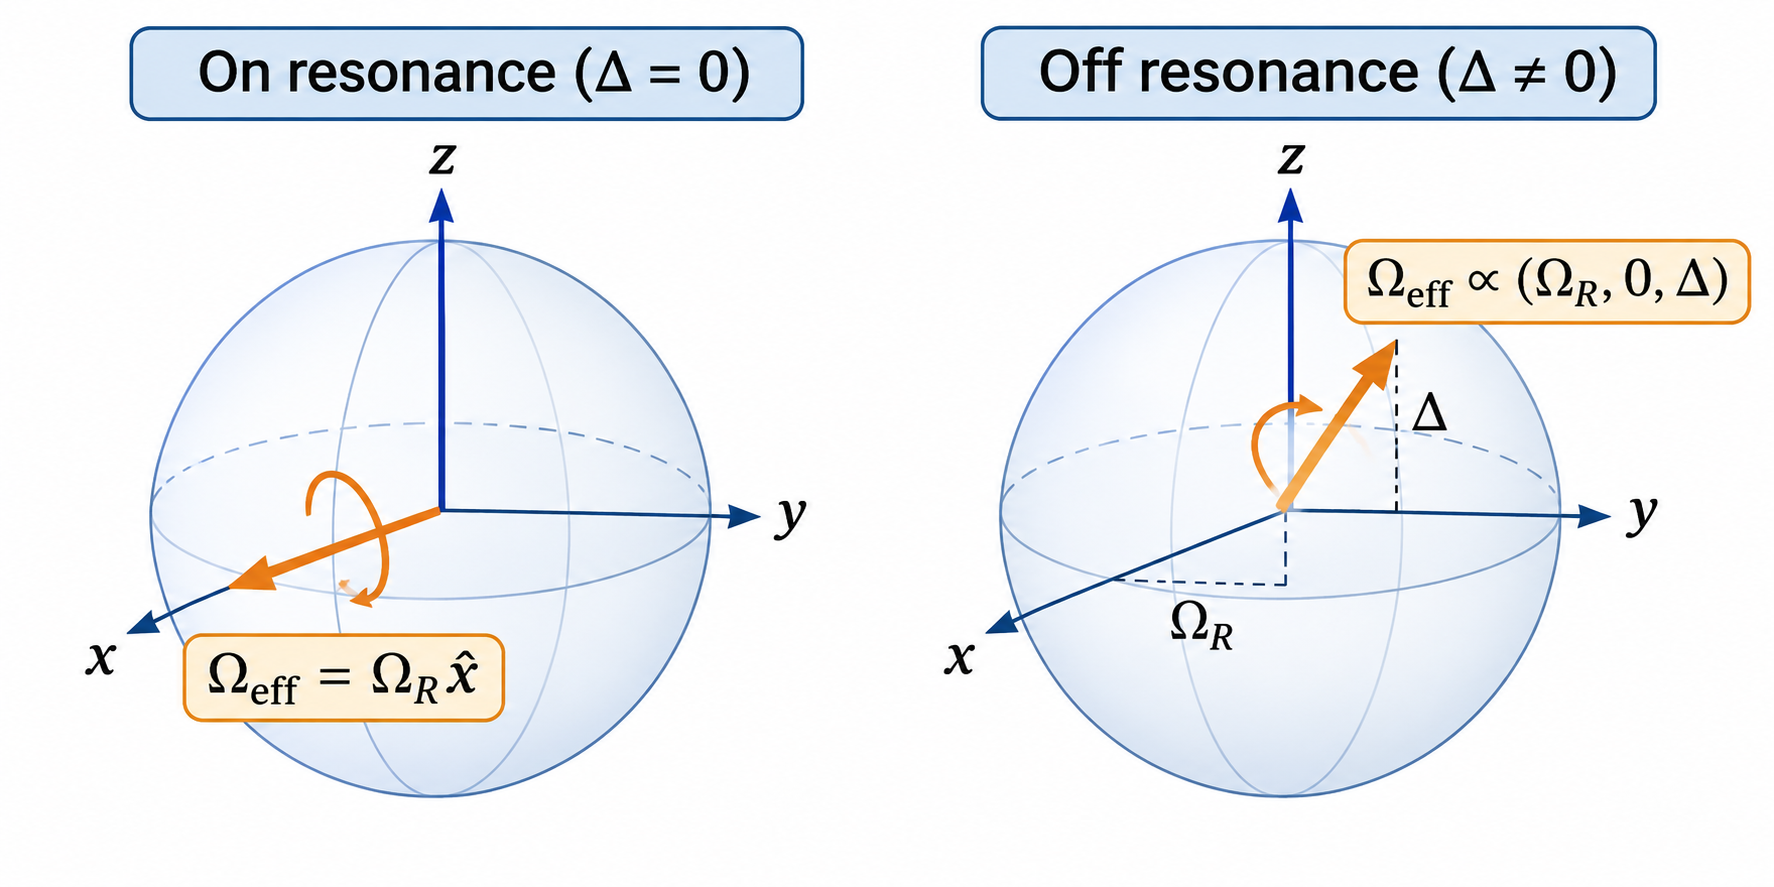
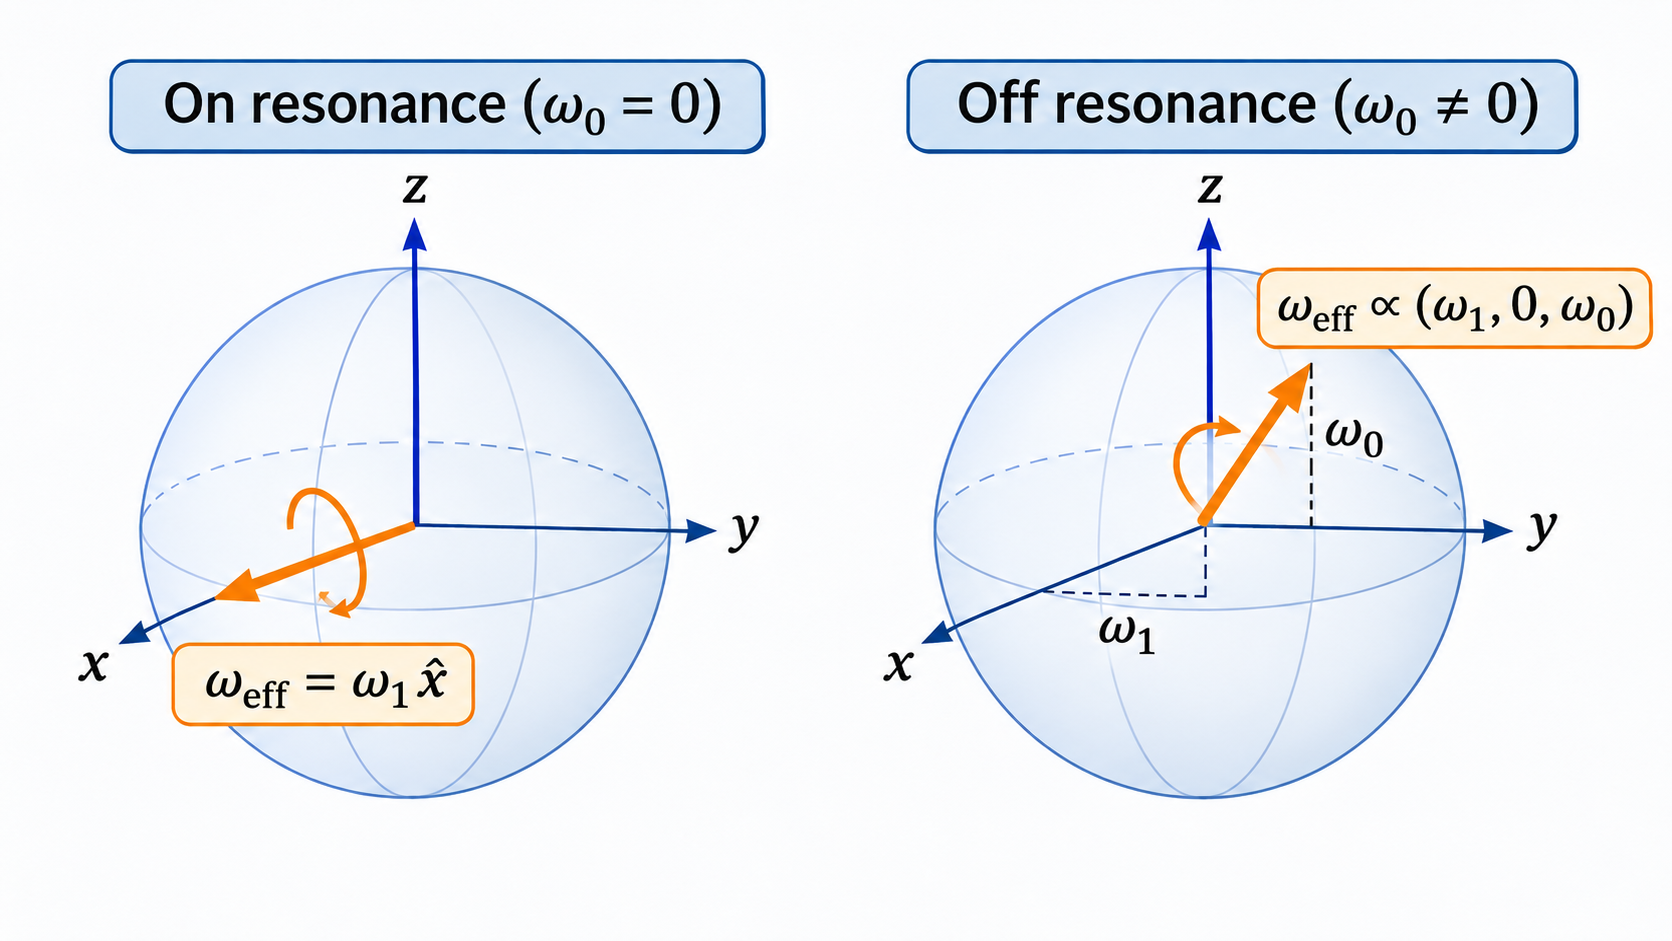
part 2 update

diff --git a/Schrodinger Time Evolution - NV Diamonds/Part 2: Microwave Driving and Rabi Oscillations.md b/Schrodinger Time Evolution - NV Diamonds/Part 2: Microwave Driving and Rabi Oscillations.md
@@ -4,7 +4,7 @@
 
 In Part 1, you observed how a quantum superposition accumulates relative phase while the probabilities of measuring its two basis states remain unchanged.
 
-We can do something more powerful: **use microwave radiation to deliberately transfer population between two quantum states**. This controlled evolution is called *Rabi oscillation*.
+We can do something more powerful: **use microwave radiation to deliberately transfer population between two quantum states**. This controlled evolution produces *Rabi oscillations*.
 
 In this activity, you will simulate microwave-driven dynamics of an NV-center spin, identify the pulse duration required to flip the spin, and investigate what happens when the microwave frequency does not match the spin transition frequency.
 
@@ -23,81 +23,103 @@ We continue to use the effective two-level system introduced in Part 0:
 |1\rangle\equiv|m_s=-1\rangle.
 ```
 
-A static magnetic field applied along the NV axis changes the energy difference between these states. The transition has an angular frequency $\omega_0$ determined by that energy difference:
+A static magnetic field applied along the NV axis changes the energy difference between these states. Let $\omega_{\mathrm{NV}}$ denote the physical angular transition frequency, defined by the magnitude of the energy gap:
 
 ```math
-E_1-E_0=\hbar\omega_0.
+|E_1-E_0|=\hbar\omega_{\mathrm{NV}}.
 ```
 
-A microwave magnetic field oscillating at angular frequency $\omega_d$ can drive transitions between the two states. We define the **detuning** as
+A microwave field oscillating at angular frequency $\omega_d$ can drive transitions between the states. The microwave is **on resonance** when $\omega_d=\omega_{\mathrm{NV}}$; otherwise it is **off resonance**.
+
+Students in QLab are developing NV-diamond magnetometers using these transitions. A magnetic field shifts $\omega_{\mathrm{NV}}$, changing the response to microwaves held at a fixed frequency. We will connect the resulting population changes to red fluorescence in Part 3.
+
+### Connection to the Textbook: An Effective Time-Independent Hamiltonian
+
+In Section 3.2.2 of your textbook, you studied a spin in a *static* magnetic field with $x$- and $z$-components. Its Hamiltonian has the form
 
 ```math
-\Delta=\omega_0-\omega_d.
+\hat H=\omega_0\hat S_z+\omega_1\hat S_x
+=\frac{\hbar}{2}\left(\omega_0\sigma_z+\omega_1\sigma_x\right).
 ```
 
-When $\Delta=0$, the microwave field is **on resonance**. When $\Delta\ne0$, the microwave field is **off resonance**.
-
-In the QLab, students developing NV-diamond magnetometers must understand this microwave control. Because a magnetic field changes the NV transition frequency, a microwave drive at a fixed frequency can become resonant or detuned as the field changes. The resulting changes in spin populations can ultimately be detected through red fluorescence, which we will investigate in Part 3.
-
-### The Rotating-Frame Hamiltonian
-
-To describe microwave-driven evolution, we use a reference frame rotating with the applied microwave field. In this frame, and within the rotating-wave approximation, our two-level Hamiltonian is
+**Our microwave-driven NV center uses an effective Hamiltonian with the same mathematical form:**
 
 ```math
-\hat H=\frac{\hbar}{2}\left(\Omega_R\sigma_x+\Delta\sigma_z\right),
+\boxed{\hat H_{\mathrm{eff}}=\frac{\hbar}{2}\left(\omega_0\sigma_z+\omega_1\sigma_x\right).}
 ```
 
-where:
+Here the two parameters mean:
 
-- $\Omega_R$ is the **resonant Rabi angular frequency**, controlled by the microwave field strength.
-- $\Delta$ is the detuning between the NV transition and the microwave drive.
-- $\sigma_x$ and $\sigma_z$ are the Pauli operators for our effective two-level system.
+- $\omega_0=\omega_{\mathrm{NV}}-\omega_d$: **signed microwave detuning**, playing the role of the textbook's $z$-term coefficient.
+- $\omega_1$: **effective microwave coupling strength**, playing the role of the textbook's $x$-term coefficient. On resonance, it is the Rabi angular frequency.
 
-We will work in units of microseconds and radians per microsecond. QuTiP uses $\hbar=1$ when we enter the Hamiltonian in angular-frequency units, so the computational Hamiltonian is $H/\hbar$.
+**Important distinction:** The textbook's field is truly static, while the microwave field applied to an NV center oscillates rapidly in the laboratory. The Hamiltonian above is a **time-independent effective model**, valid during a constant-amplitude microwave pulse in a frame rotating with the drive and under the rotating-wave approximation. We will use it without deriving that transformation. In particular, $\omega_0$ in **this part** means *detuning*, **not** the NV transition frequency $\omega_{\mathrm{NV}}$ or the illustrative precession rate used in Part 1.
+
+The Pauli operators here describe our two-state subspace, not the full spin-1 NV ground state. In matrix form, as in the textbook,
+
+```math
+\hat H_{\mathrm{eff}}=\frac{\hbar}{2}
+\begin{pmatrix}
+\omega_0 & \omega_1 \\
+\omega_1 & -\omega_0
+\end{pmatrix}.
+```
+
+We will work in microseconds and radians per microsecond. In QuTiP, supply $H/\hbar$ in angular-frequency units, so the numerical Hamiltonian uses the same coefficients without an explicit factor of $\hbar$.
 
 ### Resonant Driving: A Spin Flip
 
-On resonance, $\Delta=0$, so the Hamiltonian simplifies to
+On resonance, $\omega_0=0$, so the Hamiltonian simplifies to
 
 ```math
-\hat H_{\mathrm{res}}=\frac{\hbar\Omega_R}{2}\sigma_x.
+\hat H_{\mathrm{res}}=\frac{\hbar\omega_1}{2}\sigma_x.
 ```
 
 Starting from $|0\rangle$, the microwave field drives a rotation about the $x$-axis of the Bloch sphere. The population of $|1\rangle$ is
 
 ```math
-P_1(t)=\sin^2\left(\frac{\Omega_Rt}{2}\right).
+P_1(t)=\sin^2\left(\frac{\omega_1t}{2}\right).
 ```
 
 After a time
 
 ```math
-t_\pi=\frac{\pi}{\Omega_R},
+t_\pi=\frac{\pi}{\omega_1},
 ```
 
 the spin has rotated through an angle $\pi$ and the population has transferred completely from $|0\rangle$ to $|1\rangle$. This is called a **$\pi$-pulse**. A shorter $\pi/2$-pulse prepares an equal superposition.
 
 ### Off-Resonant Driving
 
-When $\Delta\ne0$, the Hamiltonian contains both $\sigma_x$ and $\sigma_z$ terms:
+When $\omega_0\ne0$, the Hamiltonian contains both $\sigma_x$ and $\sigma_z$ terms:
 
 ```math
-\hat H_{\mathrm{off}}=\frac{\hbar}{2}\left(\Omega_R\sigma_x+\Delta\sigma_z\right).
+\hat H_{\mathrm{off}}=\frac{\hbar}{2}\left(\omega_0\sigma_z+\omega_1\sigma_x\right).
 ```
 
-The Bloch vector now rotates about a tilted effective axis in the $x$–$z$ plane, rather than the $x$-axis alone. The oscillations occur at the **generalized Rabi angular frequency**
+The Bloch vector rotates around a tilted effective axis in the $x$–$z$ plane, just as in the textbook's general-direction field problem. The difference between the two energy eigenvalues defines the generalized oscillation angular frequency
 
 ```math
-\Omega_{\mathrm{eff}}=\sqrt{\Omega_R^2+\Delta^2},
+\Omega=\sqrt{\omega_0^2+\omega_1^2}.
 ```
 
-but the maximum population transfer is reduced:
+The textbook's Rabi formula (Eq. 3.63) becomes, for our initial $|0\rangle$ state,
 
 ```math
-P_{1,\max}=\frac{\Omega_R^2}{\Omega_R^2+\Delta^2}.
+P_{0\rightarrow1}(t)=
+\frac{\omega_1^2}{\omega_0^2+\omega_1^2}
+\sin^2\!\left(\frac{\sqrt{\omega_0^2+\omega_1^2}}{2}t\right).
 ```
 
-The distinction is important: **detuning can make the population oscillate faster while preventing a complete spin flip**.
+The maximum population transfer is
+
+```math
+P_{0\rightarrow1}^{\max}=\frac{\omega_1^2}{\omega_0^2+\omega_1^2}.
+```
+
+Thus **increasing the magnitude of detuning increases the generalized oscillation frequency while decreasing the maximum probability of a complete spin flip**.
+
+**Diagram notation:** The reference image uses the common labels $\Delta$ and $\Omega_R$. These correspond to our textbook-style $\omega_0$ and $\omega_1$, respectively. Its $\Omega_{\mathrm{eff}}$ is the same as $\Omega$ here.
 
 <p align="center">
   <img src="Images/nv_rabi_resonant_vs_detuned_bloch.png"
@@ -105,7 +127,7 @@ The distinction is important: **detuning can make the population oscillate faste
        width="450">
 </p>
 
-*Reference diagram: On resonance, the effective rotation axis lies along x. With nonzero detuning, it tilts toward z. Students will calculate the corresponding spin trajectories in Figure 3.*
+*Reference diagram (with alternate notation): On resonance, the effective rotation axis lies along x. With nonzero detuning, it tilts toward z. Students will calculate the corresponding spin trajectories in Figure 3.*
 
 ---
 
@@ -122,7 +144,7 @@ Start with the initial state
 and the resonant Hamiltonian
 
 ```math
-\hat H_{\mathrm{res}}=\frac{\hbar\Omega_R}{2}\sigma_x.
+\hat H_{\mathrm{res}}=\frac{\hbar\omega_1}{2}\sigma_x.
 ```
 
 **Record your predictions before running the simulation:**
@@ -136,8 +158,8 @@ and the resonant Hamiltonian
 Use the instructor-provided QuTiP functions and the parameters
 
 ```math
-\Omega_R=2\pi\ \mathrm{rad/\mu s},\qquad
-\Delta=0,
+\omega_1=2\pi\ \mathrm{rad/\mu s},\qquad
+\omega_0=0,
 ```
 
 with a simulation interval of
@@ -175,12 +197,12 @@ Include a caption describing how rotation on the Bloch sphere corresponds to pop
 Repeat the simulation with
 
 ```math
-\Omega_R=4\pi\ \mathrm{rad/\mu s},\qquad \Delta=0.
+\omega_1=4\pi\ \mathrm{rad/\mu s},\qquad \omega_0=0.
 ```
 
 Keep the initial state and total time interval unchanged.
 
-Report the expected and observed first $\pi$-pulse durations for both microwave strengths. Explain the change in the population-oscillation period.
+Report the expected and observed first $\pi$-pulse durations for both coupling strengths. Explain the change in the population-oscillation period.
 
 An additional comparison plot may help, but it is **not another required numbered figure**.
 
@@ -190,19 +212,19 @@ An additional comparison plot may help, but it is **not another required numbere
 
 ### Step 5: Predict the Effect of Detuning
 
-Return to the original microwave strength
+Return to the original microwave coupling
 
 ```math
-\Omega_R=2\pi\ \mathrm{rad/\mu s}
+\omega_1=2\pi\ \mathrm{rad/\mu s}
 ```
 
 and consider three driving conditions:
 
-| Case | Detuning $\Delta$ | Interpretation |
+| Case | Detuning $\omega_0$ | Interpretation |
 |---|---:|---|
 | A | $0$ | Resonant |
-| B | $\Omega_R$ | Moderately detuned |
-| C | $2\Omega_R$ | More strongly detuned |
+| B | $\omega_1$ | Moderately detuned |
+| C | $2\omega_1$ | More strongly detuned |
 
 **Before running the simulations, predict:**
 
@@ -212,10 +234,10 @@ and consider three driving conditions:
 
 ### Step 6: Simulate Detuned Driving
 
-Use the full rotating-frame Hamiltonian:
+Use the full effective Hamiltonian:
 
 ```math
-\hat H=\frac{\hbar}{2}\left(\Omega_R\sigma_x+\Delta\sigma_z\right).
+\hat H=\frac{\hbar}{2}\left(\omega_1\sigma_x+\omega_0\sigma_z\right).
 ```
 
 For each of the three detunings, evolve the same initial state $|0\rangle$ over $0$ to $2\ \mathrm{\mu s}$.
@@ -227,7 +249,7 @@ Use the supplied evolution and plotting functions to:
 3. Determine the maximum of $P_1(t)$ for each detuning.
 4. Compare the numerical maxima with the analytical expression for $P_{1,\max}$.
 
-**AI coding task:** Ask an LLM to extend your existing resonant simulation so that only the detuning changes. Retain the same definitions and plotting functions. Request a comparison rather than three unrelated programs.
+**AI coding task:** Ask an LLM to extend your existing resonant simulation so that only $\omega_0$ (detuning) changes. Retain the same definitions and plotting functions. Request a comparison rather than three unrelated programs.
 
 ### Step 7: Generate Figure 3
 
@@ -261,30 +283,30 @@ All probabilities must lie between 0 and 1.
 
 ### 2. Resonant $\pi$-Pulse
 
-For $\Omega_R=2\pi\ \mathrm{rad/\mu s}$, the predicted first spin flip occurs at
+For $\omega_1=2\pi\ \mathrm{rad/\mu s}$, the predicted first spin flip occurs at
 
 ```math
 t_\pi=0.5\ \mathrm{\mu s}.
 ```
 
-Verify that $P_1(t_\pi)$ is approximately 1. When the Rabi frequency is doubled, verify that the first $\pi$-pulse duration is approximately halved.
+Verify that $P_1(t_\pi)$ is approximately 1. When the microwave coupling $\omega_1$ is doubled, verify that the first $\pi$-pulse duration is approximately halved.
 
 ### 3. Detuning and Maximum Population Transfer
 
 Check the simulated maximum population against
 
 ```math
-P_{1,\max}=\frac{\Omega_R^2}{\Omega_R^2+\Delta^2}.
+P_{1,\max}=\frac{\omega_1^2}{\omega_1^2+\omega_0^2}.
 ```
 
-For the three detunings, the predicted maximum probabilities are 1, 0.5, and 0.2, respectively. Small numerical differences due to time sampling are acceptable.
+For $\omega_0=0,\omega_1,2\omega_1$, the predicted maximum probabilities are 1, 0.5, and 0.2, respectively. Small numerical differences due to time sampling are acceptable.
 
 ### 4. Generalized Rabi Frequency
 
 Verify that the oscillations change frequency as predicted by
 
 ```math
-\Omega_{\mathrm{eff}}=\sqrt{\Omega_R^2+\Delta^2}.
+\Omega=\sqrt{\omega_1^2+\omega_0^2}.
 ```
 
 Record a concise table of your measured or calculated values and identify any discrepancies.
